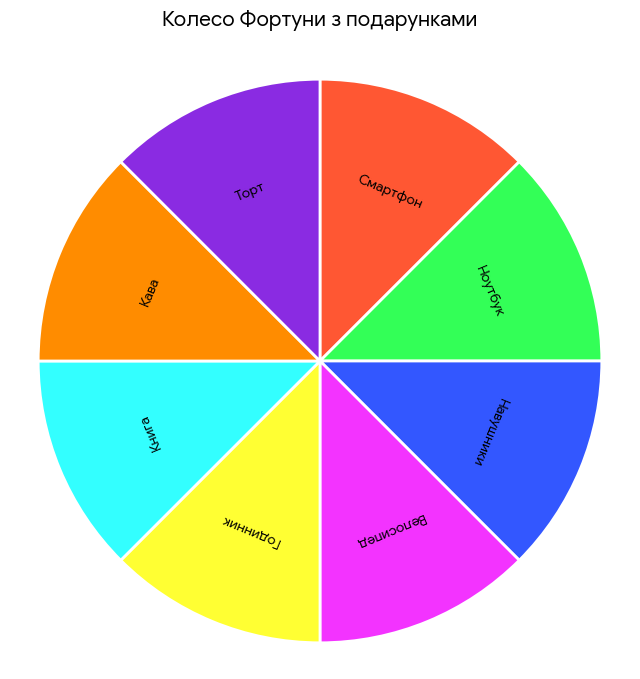
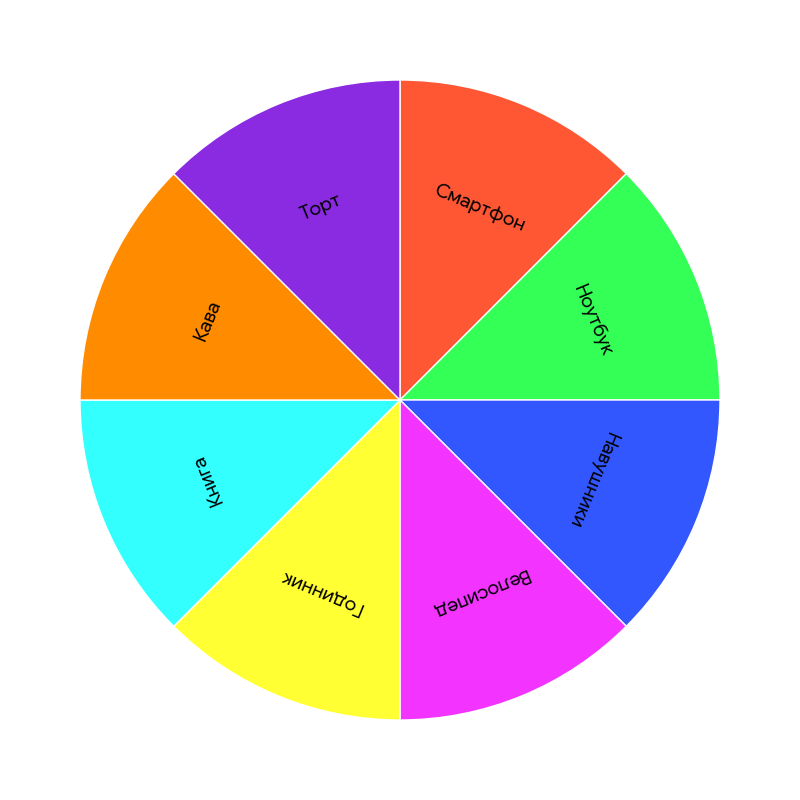
asset: update wheel image

diff --git a/static/index.html b/static/index.html
@@ -14,7 +14,7 @@
     <!-- Колесо -->
     <div class="wheel-wrap">
       <div class="wheel-container">
-        <img id="wheel" src="assets/wheel.png?v=4" alt="Wheel" />
+        <img id="wheel" src="assets/wheel.png?v=10" alt="Wheel" />
 
         <!-- Поінтер, який обертається навколо центра -->
         <div id="pointer-rotator" class="pointer-rotator">
